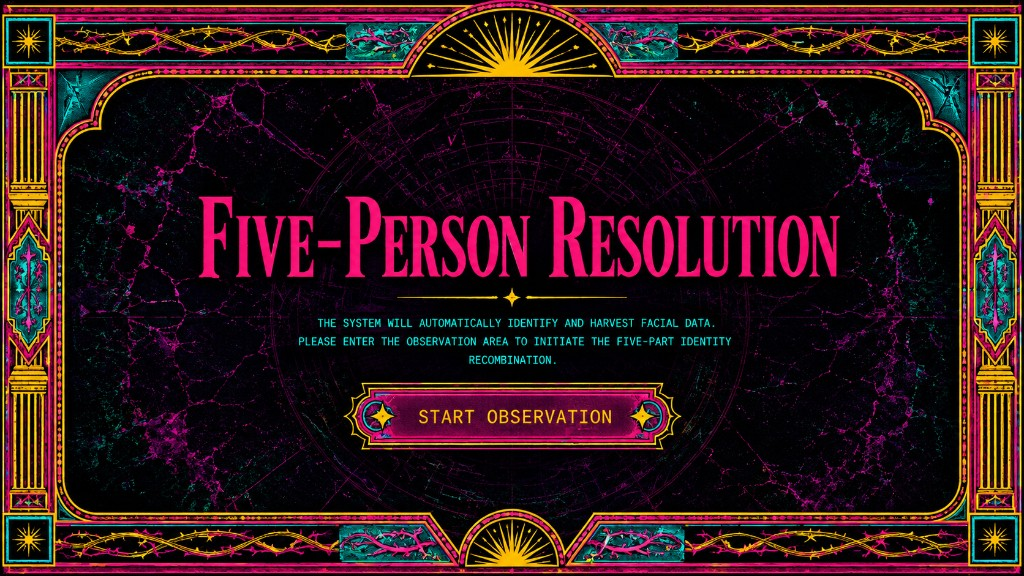
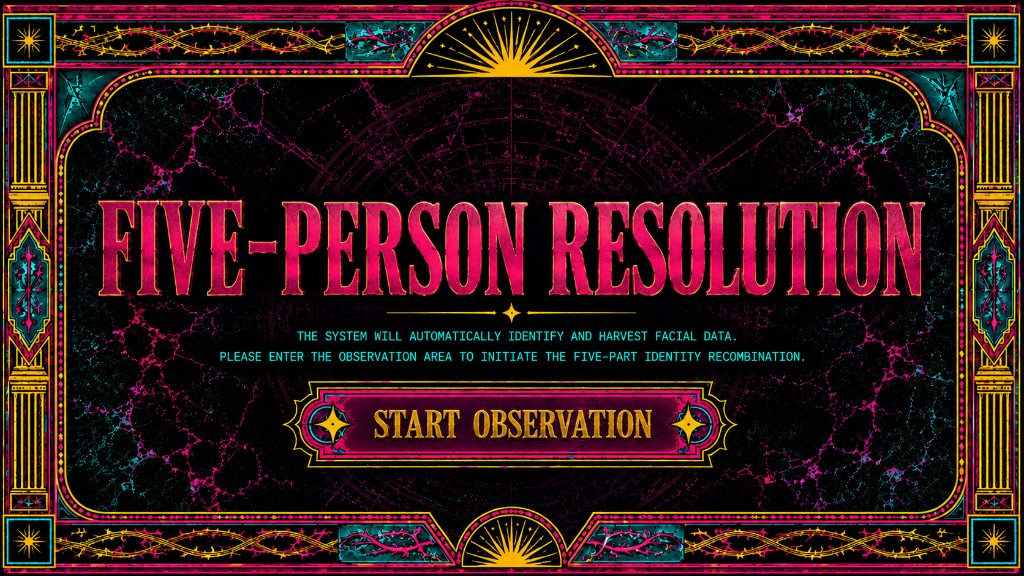
Replace intro cover art and align the start-button hotspot.

diff --git a/App.tsx b/App.tsx
@@ -198,7 +198,7 @@ const App: React.FC = () => {
               }}
             >
               <img
-                src="/cover.jpg"
+                src="/cover.jpg?v=2"
                 alt="Five-Person Resolution"
                 className="absolute inset-0 w-full h-full object-fill select-none pointer-events-none"
                 draggable={false}
@@ -207,7 +207,7 @@ const App: React.FC = () => {
                 type="button"
                 onClick={() => setPhase(SystemPhase.CAPTURE)}
                 aria-label="Start Observation"
-                className="absolute left-1/2 top-[71.5%] z-10 h-[10%] w-[36%] -translate-x-1/2 -translate-y-1/2 cursor-pointer border-0 bg-transparent outline-none shadow-none focus:outline-none focus-visible:outline-none"
+                className="absolute left-1/2 top-[75%] z-10 h-[18%] w-[52%] -translate-x-1/2 -translate-y-1/2 cursor-pointer border-0 bg-transparent outline-none shadow-none focus:outline-none focus-visible:outline-none"
               />
             </div>
           </div>
